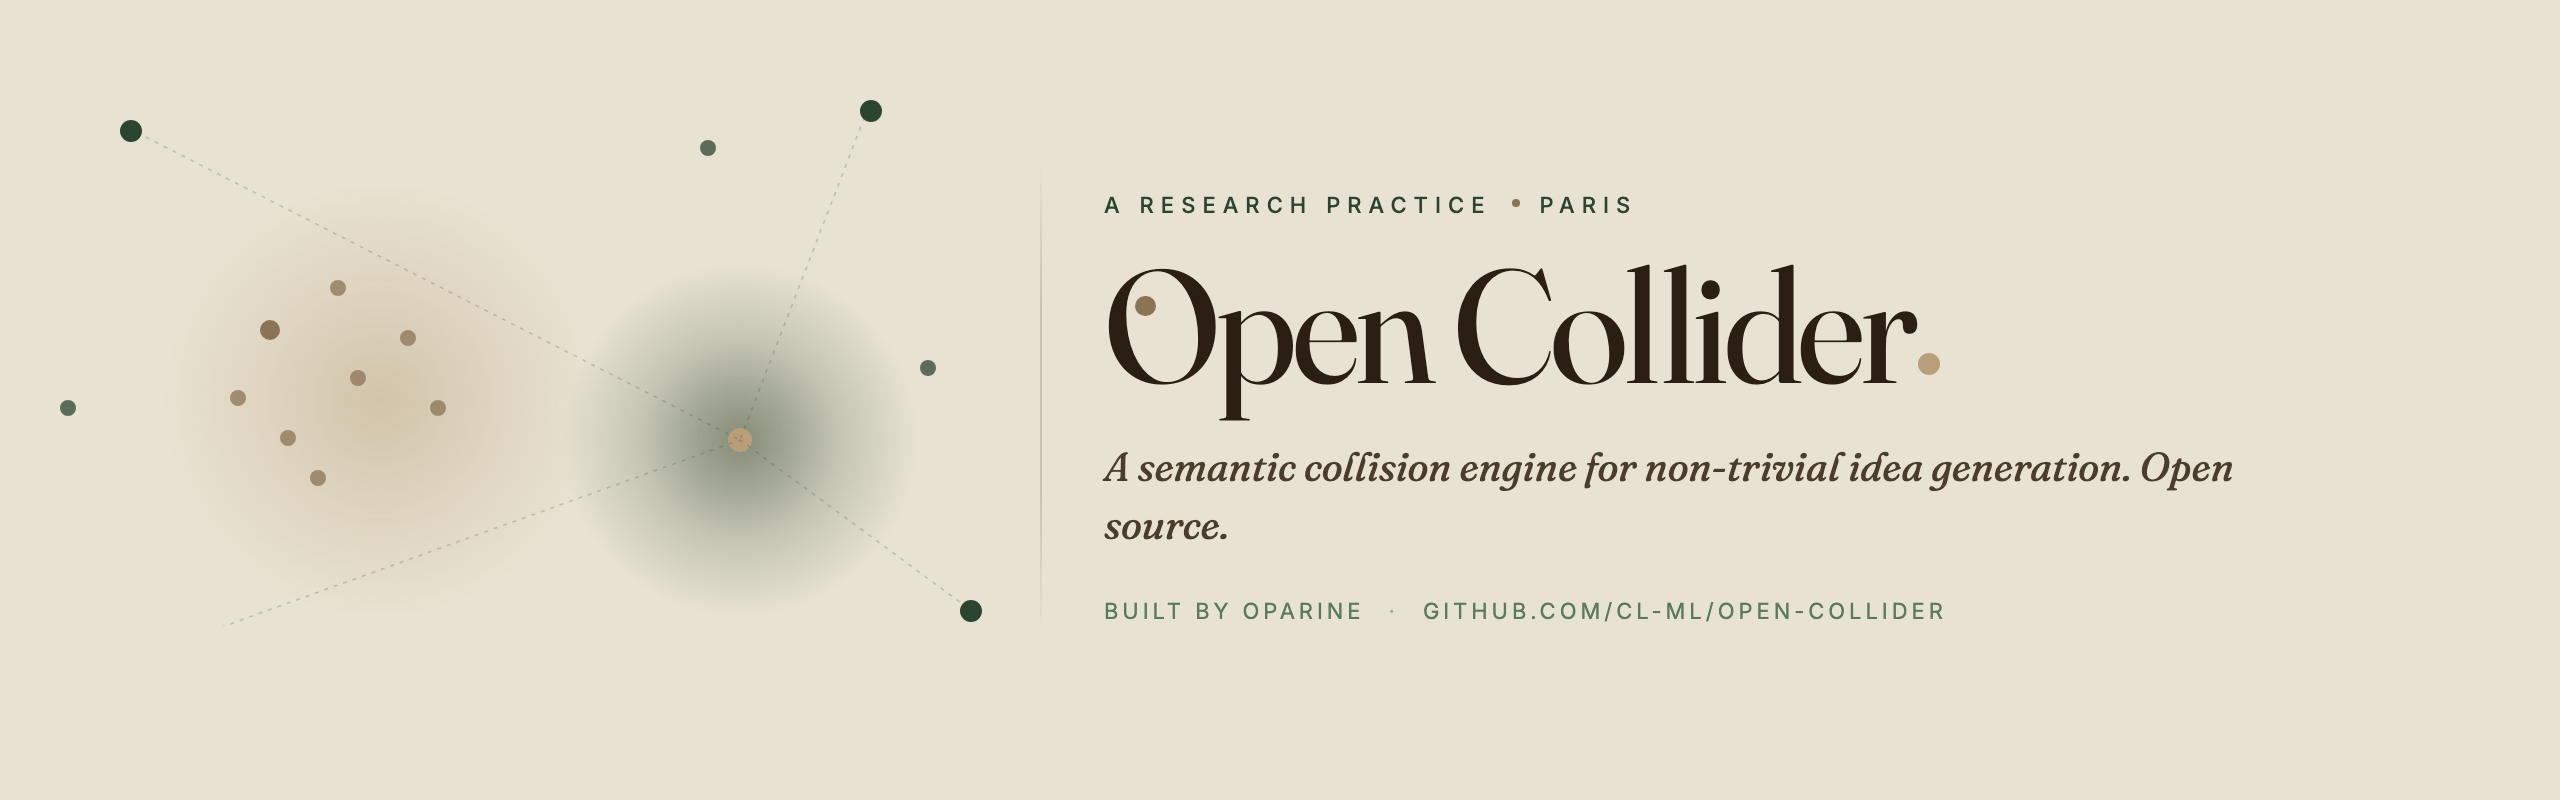
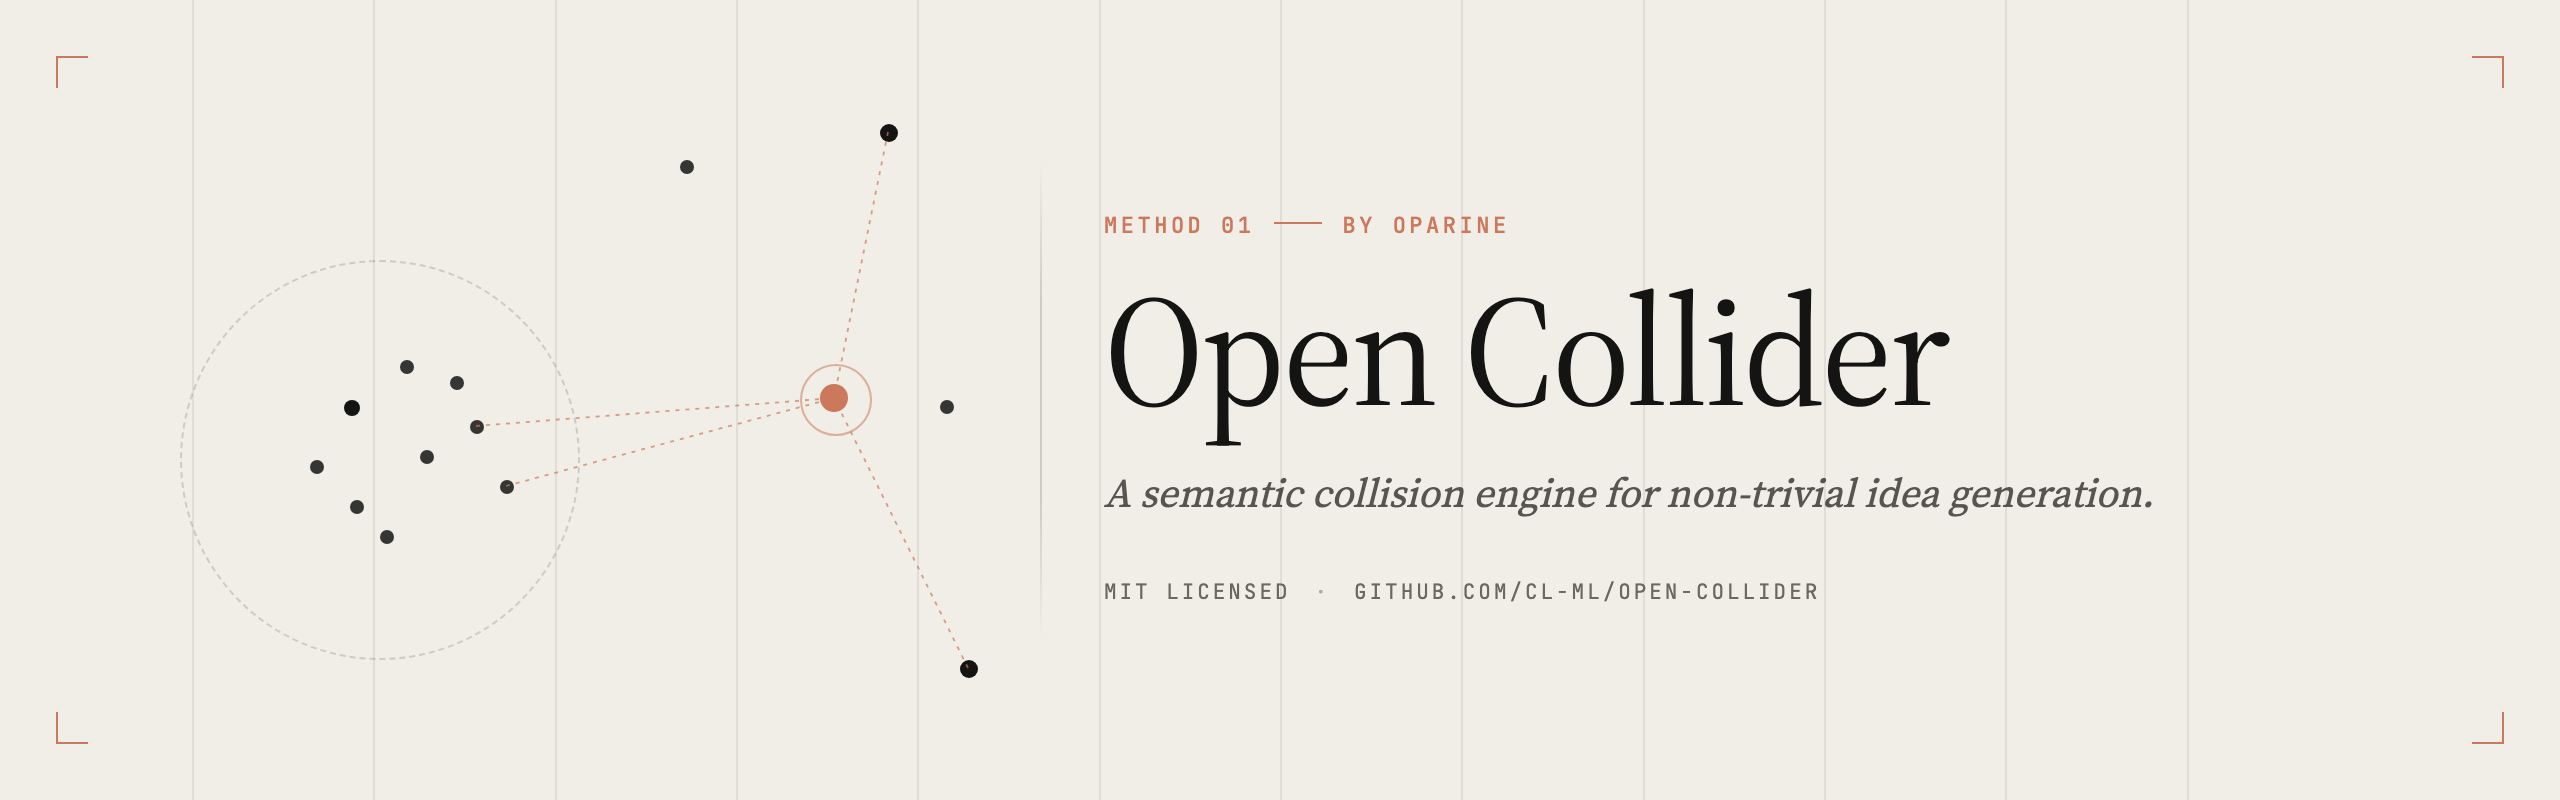
README: surface Quick start, add author section, refresh visuals
- Reorder sections: Quick start now appears right after the intro,
  before The problem / A concrete example / How a session works.
  Visitors land on install instructions immediately.
- Add "About me & Oparine" section: who I am, what I believe,
  what Oparine pursues, consulting contact.
- Refresh hero banner, pipeline diagram, and side-by-side example
  PNGs to match the oparine.ai visual identity.

diff --git a/README.md b/README.md
@@ -13,69 +13,6 @@ It's the first method shipped by [Oparine](https://oparine.ai), a research pract
 
 ---
 
-## The problem
-
-Ask an LLM for 50 ideas. Then ask again. Measure semantic similarity: 80%+ of outputs cluster in the same region. Different words, same substance. The model converges toward high-probability completions. We call this the **default-prompt basin**; researchers have started calling it the [**Artificial Hivemind**](https://arxiv.org/abs/[phone redacted]).
-
-Adding more in-domain context to your prompt doesn't fix it. It concentrates the response *deeper* into the same basin.
-
-The way out is to inject material from somewhere the model wouldn't go on its own.
-
-<p align="center">
-  <img src="assets/diagrams/09_escape_mediocrity.png" alt="Injecting distant points A and B: the collision zone escapes the high-density basin" width="40%">
-</p>
-
-<p align="center"><sub><i>Visual extracted from the <a href="https://oparine.substack.com/">foundational article</a>.</i></sub></p>
-
-The intuition: a constellation of distant attractors stretches the prompt across low-density regions of idea space, where the model wouldn't go on its own. The collision zones, where these attractors' trajectories converge, are where non-trivial ideas can emerge.
-
-→ Full theory and rationale: **[The Open Collider foundational article](https://oparine.substack.com/)**.
-
----
-
-## A concrete example
-
-Same brief, same model, same reference text. The only difference: Open Collider injects a **distant-domain collision** into the prompt.
-
-> **Brief:** *Structural redesigns of Spotify's Discover Weekly that break users out of their taste bubble.*
-
-<p align="center">
-  <img src="assets/diagrams/spotify-side-by-side.png" alt="Default LLM vs Open Collider, 3 ideas each on the Spotify Discover Weekly brief" width="100%">
-</p>
-
-<details>
-<summary><b>Same comparison as a table (accessible / indexable)</b></summary>
-
-|     | **Default LLM (B): direct prompting** | **Open Collider (A): distant-domain collisions** |
-|-----|-----------------------------------------|---------------------------------------------------|
-| 01  | **Decay Discovery.** Recommendations lose algorithmic weight exponentially after first exposure. Every recommended song gets a timestamp; its likelihood of re-recommendation halves each week, pushing the system to dig into uncharted territory because familiar options become algorithmically unavailable. | **Tail Fracture Protocol.** A Prince Rupert's drop resists a hammer blow to the head but shatters completely if the thin tail is touched. A user's taste has the same topology: their core genre commitments are nearly unbreakable from direct frontal approach, but the peripheral, rarely-played edges are catastrophically open. Surface tracks structurally similar to tail events, not the head. *↳ from glass physics / fracture mechanics* |
-| 02  | **Anti-Clustering Engine.** Map the multidimensional space of all user preferences, then deliberately serve content from the antipodal regions. If a user listens to indie folk, the engine pulls from heavy metal, experimental jazz, K-pop. Musical comfort treated as a problem to solve, not a preference to indulge. | **Production Chain Triangulation.** Genre tags are listener-facing constructs and useless for cross-genre discovery (defined by the same taste clusters they produce). Triangulate via production chain data: engineer, studio, mastering. A mastering engineer who worked on a record the user loves has worked on records across twenty genres they've never touched. Craft lineage as the bridge, not sonic similarity. *↳ from supply-chain provenance* |
-| 03  | **Skip Inversion Algorithm.** Tracks users skip most frequently get promoted; skip behavior reframed as challenge, not poor quality. Songs with diverse skip patterns across taste profiles receive amplification. The mechanism distinguishes "bad" skips (immediate rejection) from "challenging" skips (unfamiliarity). | **Substrate Penetration Scheduler.** Koji mold infiltrates rice with enzymatic hyphae for days before any visible transformation. Applied to discovery: instead of recommending unfamiliar tracks, inject micro-doses of structural elements from distant genres (a tuning system, a rhythmic subdivision, a harmonic ratio) embedded inside tracks the user already streams. *↳ from fermentation biology* |
-
-The B ideas are unobjectionable mechanisms: same neighborhood, tweaks to the recommendation function. The A ideas are pulled from glass physics, supply chains, and fermentation biology. Same brief; nowhere near the dense center.
-</details>
-
-The contrast above is the claim. The rest of this README is how to get it on your own briefs.
-
----
-
-## How a session works
-
-OC runs as **brainstorm sessions** built from multiple **iterations**. Each iteration runs the four steps below and surfaces ~10-20 curated ideas for your ideation problem.
-
-![How a session works · Brief → Domains → Collide → Curate](assets/diagrams/10_pipeline.png)
-
-The four steps:
-
-1. **Brief.** Describe your ideation problem, what kinds of ideas you're looking for, what makes a good idea, and give the model **raw reference material** (texts, examples, samples of voice) so it has rich context about the problem. General-purpose, any ideation problem welcome.
-2. **Domains.** An LLM generates structurally distant knowledge domains. Each one carries a counter-intuitive *active principle* (a mechanism) and a bridging question toward your problem.
-3. **Collide.** The mass-generation engine. Each (reference text × distant domain) pair gets its own isolated context window. Goal: produce **a massive volume of candidate ideas**, drawn from many reference materials and many structurally distant domains in parallel. ~20 ideas per collision, ~240 per strategy, three strategies per iteration.
-4. **Curate.** The essential filter. From the mass-generated pool, extract the **gems** that are both **relevant** to your brief AND **non-trivial** (true collisions, verifiable mechanisms, in your voice). Most of the mass is noise; that's expected. The whole point is to surface the few high-signal ideas worth your attention.
-
-Then **feedback**: you apply *love / like / trash* to curated ideas. Loved domains *deepen* into new specialties; loved mechanisms *refresh* into new disciplines; fresh domains keep exploring. Sessions typically exhaust after 3–5 iterations.
-
----
-
 ## Quick start
 
 Open Collider runs inside [Claude Code](https://claude.ai/code), in two modes. Requires **Python >=3.10**.
@@ -121,6 +58,67 @@ On first `/brainstorm`, you'll be asked to choose API or Skill mode. The choice 
 | Requirements   | Anthropic API key               | Claude Code Max subscription         |
 
 **What you'll see on a first run.** `/collider_setup` produces a project folder with your brief, reference texts, and scoring axes. `/brainstorm` then prints the domain bank as it generates, streams idea batches per collision, scores them on your axes, and presents curated ideas inline for love/like/trash. A first iteration ends with a `REPORT.md` you can read or share, and a structured `iter_001/` folder for inspection.
+
+---
+
+## The problem
+
+Ask an LLM for 50 ideas. Then ask again. Measure semantic similarity: 80%+ of outputs cluster in the same region. Different words, same substance. The model converges toward high-probability completions. We call this the **default-prompt basin**; researchers have started calling it the [**Artificial Hivemind**](https://arxiv.org/abs/[phone redacted]).
+
+Adding more in-domain context to your prompt doesn't fix it. It concentrates the response *deeper* into the same basin.
+
+The way out is to inject material from somewhere the model wouldn't go on its own.
+
+<p align="center">
+  <img src="assets/diagrams/09_escape_mediocrity.png" alt="Injecting distant points A and B: the collision zone escapes the high-density basin" width="40%">
+</p>
+
+<p align="center"><sub><i>Visual extracted from the <a href="https://oparine.substack.com/">foundational article</a>.</i></sub></p>
+
+The intuition: a constellation of distant attractors stretches the prompt across low-density regions of idea space, where the model wouldn't go on its own. The collision zones, where these attractors' trajectories converge, are where non-trivial ideas can emerge.
+
+→ Full theory and rationale: **[The Open Collider foundational article](https://oparine.substack.com/)**.
+
+---
+
+## A concrete example
+
+Same brief, same model, same reference text. The only difference: Open Collider injects a **distant-domain collision** into the prompt.
+
+> **Brief:** *Structural redesigns of Spotify's Discover Weekly that break users out of their taste bubble.*
+
+<p align="center">
+  <img src="assets/diagrams/spotify-side-by-side.png" alt="Default LLM vs Open Collider, 3 ideas each on the Spotify Discover Weekly brief" width="100%">
+</p>
+
+<details>
+<summary><b>Same comparison as a table (accessible / indexable)</b></summary>
+
+|     | **Default LLM (B): direct prompting** | **Open Collider (A): distant-domain collisions** |
+|-----|-----------------------------------------|---------------------------------------------------|
+| 01  | **Decay Discovery.** Recommendations lose algorithmic weight exponentially after first exposure. Every recommended song gets a timestamp; its likelihood of re-recommendation halves each week, pushing the system to dig into uncharted territory because familiar options become algorithmically unavailable. | **Tail Fracture Protocol.** A Prince Rupert's drop resists a hammer blow to the head but shatters completely if the thin tail is touched. A user's taste has the same topology: their core genre commitments are nearly unbreakable from direct frontal approach, but the peripheral, rarely-played edges are catastrophically open. Surface tracks structurally similar to tail events, not the head. *↳ from glass physics / fracture mechanics* |
+| 02  | **Anti-Clustering Engine.** Map the multidimensional space of all user preferences, then deliberately serve content from the antipodal regions. If a user listens to indie folk, the engine pulls from heavy metal, experimental jazz, K-pop. Musical comfort treated as a problem to solve, not a preference to indulge. | **Production Chain Triangulation.** Genre tags are listener-facing constructs and useless for cross-genre discovery (defined by the same taste clusters they produce). Triangulate via production chain data: engineer, studio, mastering. A mastering engineer who worked on a record the user loves has worked on records across twenty genres they've never touched. Craft lineage as the bridge, not sonic similarity. *↳ from supply-chain provenance* |
+| 03  | **Skip Inversion Algorithm.** Tracks users skip most frequently get promoted; skip behavior reframed as challenge, not poor quality. Songs with diverse skip patterns across taste profiles receive amplification. The mechanism distinguishes "bad" skips (immediate rejection) from "challenging" skips (unfamiliarity). | **Substrate Penetration Scheduler.** Koji mold infiltrates rice with enzymatic hyphae for days before any visible transformation. Applied to discovery: instead of recommending unfamiliar tracks, inject micro-doses of structural elements from distant genres (a tuning system, a rhythmic subdivision, a harmonic ratio) embedded inside tracks the user already streams. *↳ from fermentation biology* |
+
+The B ideas are unobjectionable mechanisms: same neighborhood, tweaks to the recommendation function. The A ideas are pulled from glass physics, supply chains, and fermentation biology. Same brief; nowhere near the dense center.
+</details>
+
+---
+
+## How a session works
+
+OC runs as **brainstorm sessions** built from multiple **iterations**. Each iteration runs the four steps below and surfaces ~10-20 curated ideas for your ideation problem.
+
+![How a session works · Brief → Domains → Collide → Curate](assets/diagrams/10_pipeline.png)
+
+The four steps:
+
+1. **Brief.** Describe your ideation problem, what kinds of ideas you're looking for, what makes a good idea, and give the model **raw reference material** (texts, examples, samples of voice) so it has rich context about the problem. General-purpose, any ideation problem welcome.
+2. **Domains.** An LLM generates structurally distant knowledge domains. Each one carries a counter-intuitive *active principle* (a mechanism) and a bridging question toward your problem.
+3. **Collide.** The mass-generation engine. Each (reference text × distant domain) pair gets its own isolated context window. Goal: produce **a massive volume of candidate ideas**, drawn from many reference materials and many structurally distant domains in parallel. ~20 ideas per collision, ~240 per strategy, three strategies per iteration.
+4. **Curate.** The essential filter. From the mass-generated pool, extract the **gems** that are both **relevant** to your brief AND **non-trivial** (true collisions, verifiable mechanisms, in your voice). Most of the mass is noise; that's expected. The whole point is to surface the few high-signal ideas worth your attention.
+
+Then **feedback**: you apply *love / like / trash* to curated ideas. Loved domains *deepen* into new specialties; loved mechanisms *refresh* into new disciplines; fresh domains keep exploring. Sessions typically exhaust after 3–5 iterations.
 
 ---
 
@@ -234,7 +232,15 @@ Open Collider is a methodical implementation of this principle, scaled by LLMs.
 
 Open Collider is a method developed at **[Oparine](https://oparine.ai)**, a research practice exploring the limits of LLM creativity. The engine, the methodology, and the 12-project benchmark are open source.
 
-Consulting inquiries: **[email redacted]**.
+## About me & Oparine
+
+I'm **Cédric Lion**. Quantitative economist and data scientist trained at PSL (Paris Sciences & Lettres). Former research analyst on Web3 economics at Animoca Brands. Full-time on AI creativity research since 2025.
+
+I'm convinced **human creativity is synthesizable by LLMs**: with the right architecture, language models can surface ideas that were never formulated in their training data. Open Collider is the first concrete bet in that direction. I build the systems, run the experiments, and publish what works.
+
+I founded **Oparine** to pursue this in two directions at once: fundamental research on what mechanically moves models out of their default outputs, and applied engagements with companies that want to build internal creativity tools (R&D ideation, strategic exploration, brand voice, product invention).
+
+If that's a fit for your team: **[email redacted]**.
 
 ## License
 